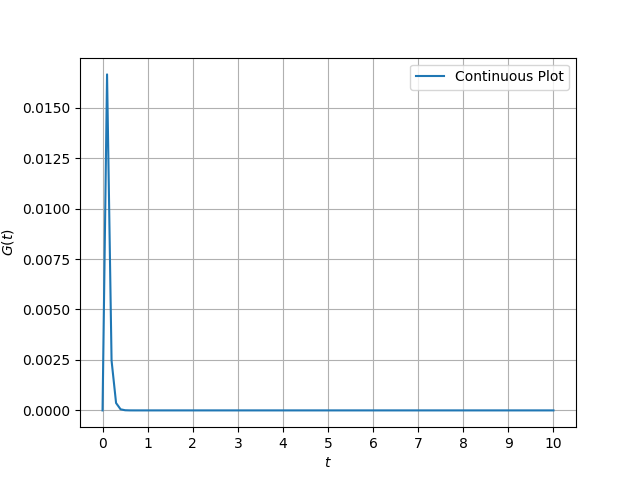
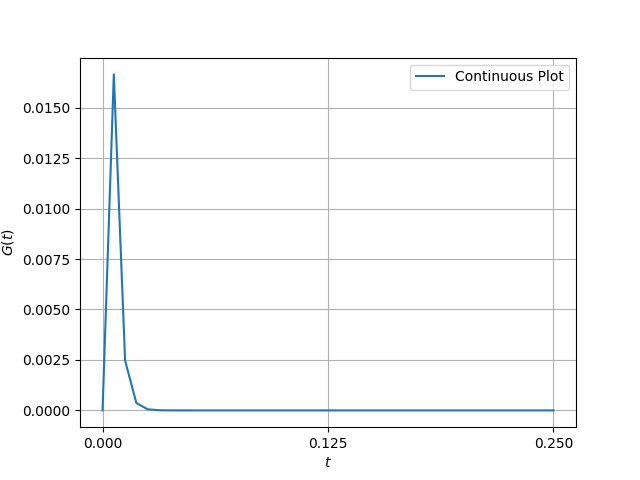
Add files via upload

diff --git a/gate23.ch.44/codes/g44.py b/gate23.ch.44/codes/g44.py
@@ -10,12 +10,12 @@ t_values = data[:, 0]
 Gt_values = data[:, 1]
 
 # Create a continuous plot
-plt.plot(t_values/10, Gt_values, marker='', linestyle='-', label='Continuous Plot')
+plt.plot(t_values, Gt_values, marker='', linestyle='-', label='Continuous Plot')
 
 plt.xlabel('$t$')
 plt.ylabel('$G(t)$')
 plt.grid(True)
-plt.gca().xaxis.set_major_locator(MultipleLocator(1))
+plt.gca().xaxis.set_major_locator(MultipleLocator(0.125))
 plt.legend()
 plt.savefig('../figs/g44fig1.png')
 plt.show()

diff --git a/gate23.ch.44/codes/g44.c b/gate23.ch.44/codes/g44.c
@@ -30,7 +30,7 @@ int main() {
   
     if (file != NULL) {
         for (int i = 0; i < num_values; ++i) {
-            fprintf(file, "%d %.30lf\n", t_values[i], Gt_values[i]);
+            fprintf(file, "%.6f %.30lf\n", t_values[i]/160.0, Gt_values[i]);
         }
 
         fclose(file);
